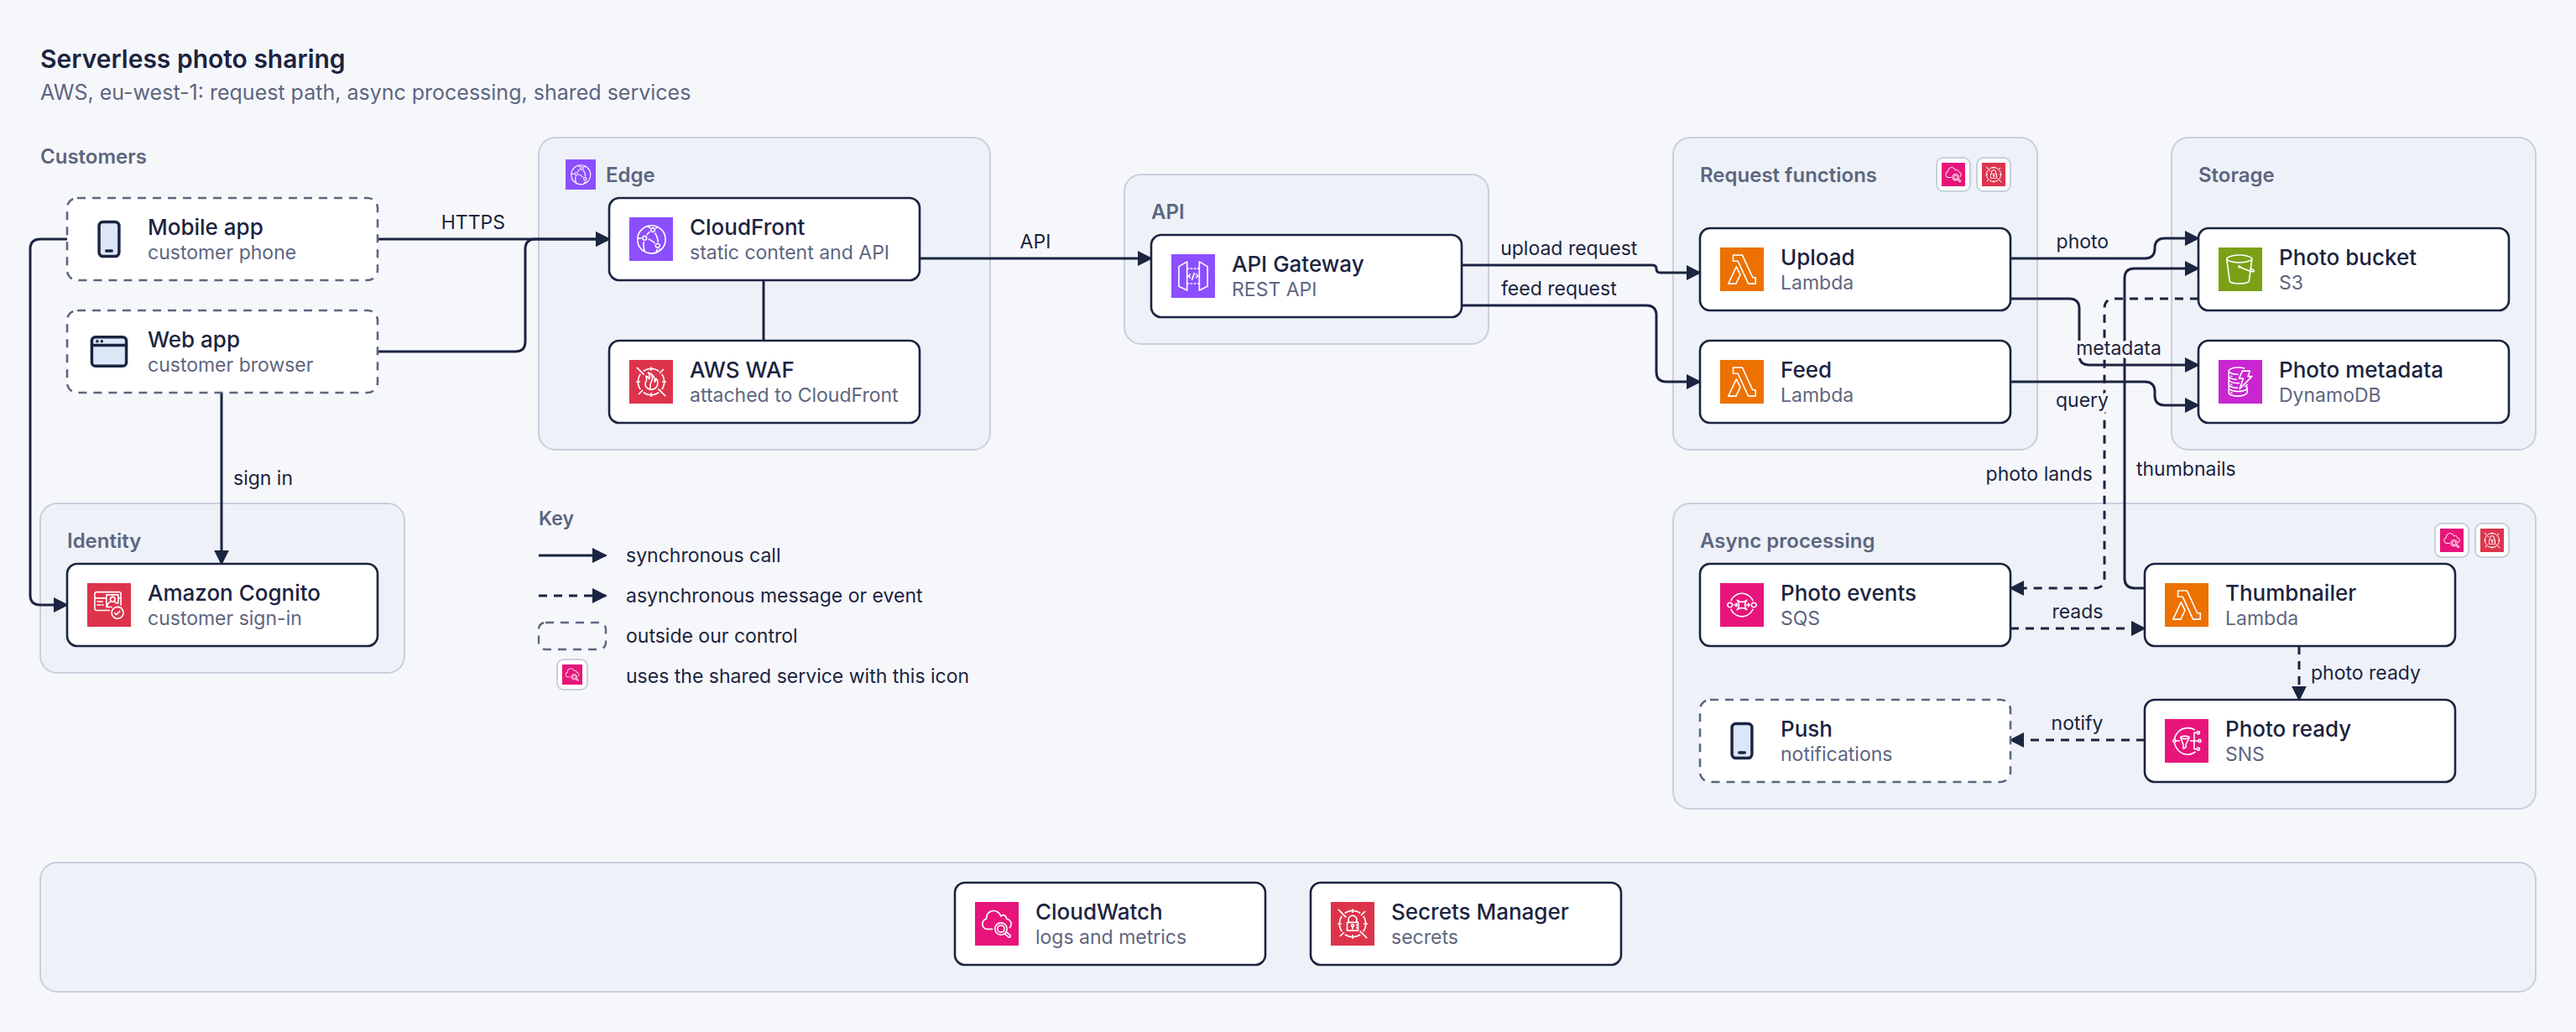
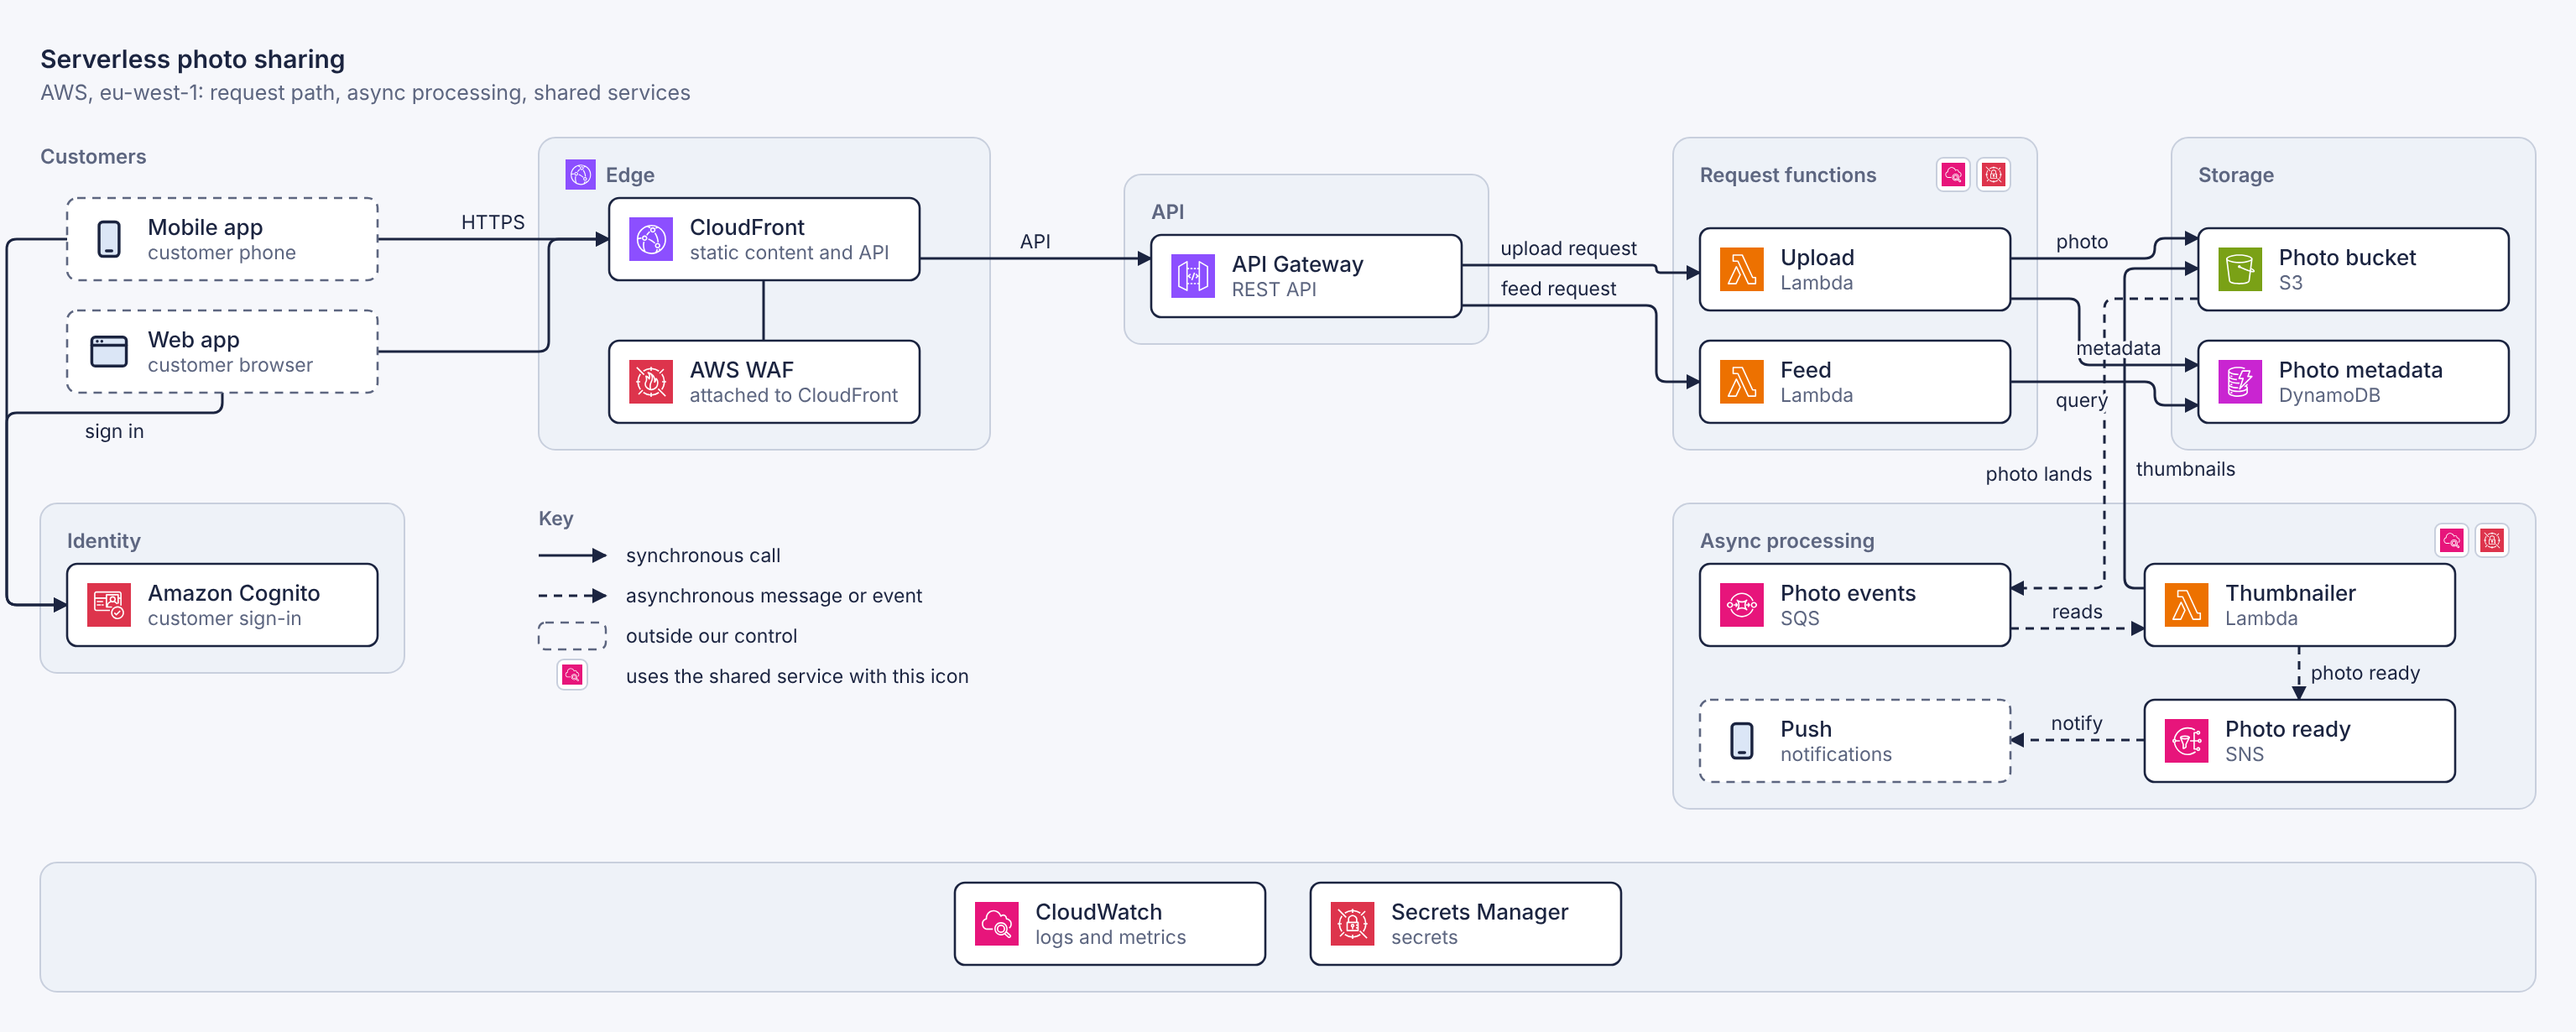
Bundles: lines with one end and one label merge into one trunk
Lines into (or out of) one box bundle when written in one statement or labelled alike in
the same style. A bundle meets its box on one side and routes as a tree: each line joins
the lines already drawn, so the bundle draws one trunk with one label. Arrowheads sit 36px
past the trunk's last bend, and two trunks keep 12px or more apart. A longer port no longer
fails on grid points inside the box's own clearance.

diff --git a/skills/graphally/scripts/lib/route.js b/skills/graphally/scripts/lib/route.js
@@ -15,6 +15,8 @@ const BEND = 36, CROSS = 70, OVERLAP = 22, FOREIGN = 2.2;
 // clearance allows such ends: its ports sit MIN_END + 2 out where there is room (portAt), and
 // where there is not, turning near the box costs STUB, so the bend moves out where it can.
 const MIN_END = 12, STUB = 60;
+// A bundle's lines turn this far out from a box they point at, so the arrowheads have room.
+const TRUNK = 36;
 const DX = [1, 0, -1, 0], DY = [0, 1, 0, -1];   // E S W N
 
 export function routeEdges(model, geo, m) {
@@ -54,13 +56,15 @@ export function routeEdges(model, geo, m) {
     return out;
   };
 
+  // Lines that share an end and mean the same thing bundle into one tree: written in one
+  // statement (a, b -> c), or labelled alike in the same style. Unlabelled lines from separate
+  // statements stay apart: nothing says they carry the same thing.
   const bundleOf = new Map();
-  for (const e of model.edges) {
-    if (!e.stmt) continue;
-    const sameTo = model.edges.filter(q => q.stmt === e.stmt && q.to === e.to).length > 1;
-    const sameFrom = model.edges.filter(q => q.stmt === e.stmt && q.from === e.from).length > 1;
-    if (sameTo) bundleOf.set(e, `${e.stmt}>${e.to}`); else if (sameFrom) bundleOf.set(e, `${e.stmt}<${e.from}`);
-  }
+  const kind = e => (e.label ? `"${e.label}"${JSON.stringify([!!e.dashed, !!e.both, !!e.accent, !!e.line, e.color || '', e.ends ? [e.ends.head, e.ends.tail, e.ends.dash] : 0])}` : e.stmt ? `#${e.stmt}` : null);
+  const groupBy = key => { const g = new Map(); for (const e of model.edges) { const k = key(e); if (k) (g.get(k) || g.set(k, []).get(k)).push(e); } return g; };
+  const fanIns = groupBy(e => kind(e) && `>${e.to}|${kind(e)}`), fanOuts = groupBy(e => kind(e) && `<${e.from}|${kind(e)}`);
+  for (const [k, list] of fanIns) if (new Set(list.map(e => e.from)).size > 1) for (const e of list) bundleOf.set(e, k);
+  for (const [k, list] of fanOuts) if (new Set(list.map(e => e.to)).size > 1) for (const e of list) if (!bundleOf.has(e)) bundleOf.set(e, k);
   const bundleIds = new Map([...new Set(bundleOf.values())].map((k, i) => [k, i + 1]));
   const edges = model.edges.filter(e => e.from !== e.to && rectOf(e.from) && rectOf(e.to)).map(e => ({
     bundle: bundleIds.get(bundleOf.get(e)) || 0,
@@ -117,6 +121,29 @@ export function routeEdges(model, geo, m) {
     }
     return path;
   });
+
+  // A bundle meets its shared box on one side, the side its longest line chose: a line that came
+  // in on another side is routed again to that one, so the lines can merge, unless that costs it
+  // a long detour or the side is set by hand.
+  const fanIn = E => (bundleOf.get(E.e) || '').startsWith('>');
+  const span = k => manhattan(center(edges[k].a), center(edges[k].b));
+  const weigh = path => path.points.reduce((t, q, i, ps) => t + (i ? manhattan(q, ps[i - 1]) : 0), 0) + BEND * Math.max(0, simplify(path.points).length - 2);
+  const byBundle = new Map();
+  edges.forEach((E, k) => { if (E.bundle && first[k]) (byBundle.get(E.bundle) || byBundle.set(E.bundle, []).get(E.bundle)).push(k); });
+  for (const list of byBundle.values()) {
+    const sideOf = k => (fanIn(edges[k]) ? first[k].goalSide : first[k].startSide), lead = list.reduce((a, b) => (span(b) > span(a) ? b : a));
+    for (const k of list) {
+      const E = edges[k], w = fanIn(E) ? 'b' : 'a', o = w === 'a' ? 'b' : 'a';
+      if (sideOf(k) === sideOf(lead) || E.e.override?.[w === 'a' ? 'out' : 'in'] != null) continue;
+      const here = portsOf(E[w], E, w, grid, P).filter(q => q && q.side === sideOf(lead)), there = endPorts(E, o, portsOf(E[o], E, o, grid, P));
+      if (!here.length) continue;
+      markUse(grid, first[k].cells, -1, E.bundle);
+      const path = astar(grid, w === 'a' ? here : there, w === 'a' ? there : here, E.allowed, gIndex, E.bundle, marksOf(E.e));
+      const better = path && weigh(path) <= weigh(first[k]) + 3 * BEND + 300;
+      if (better) first[k] = path;
+      markUse(grid, first[k].cells, 1, E.bundle);
+    }
+  }
 
   // ---- spread ports that share a side ----
   const ends = new Map();
@@ -195,24 +222,70 @@ export function routeEdges(model, geo, m) {
 
   // ---- pass 2: fixed ports ----
   for (const f of fixed) for (const w of ['a', 'b']) if (f[w]) (f[w].side % 2 === 0 ? extraY : extraX).add(f[w].coord);
+  // A bundle's lines merge and split away from its boxes: an end with a mark (the one arrowhead
+  // of a fan-in, each arrowhead of a fan-out) gets grid lines a full trunk's length out.
+  const roomy = (E, w) => E.bundle && marksOf(E.e)[w === 'b' ? 'head' : 'tail'];
+  // Two such lines a few pixels apart would draw two trunks side by side: the later one is left
+  // out, and its port snaps to the first.
+  const trunkAt = { x: [], y: [] }, addTrunk = (axis, v) => { if (trunkAt[axis].some(u => Math.abs(u - v) < 12)) return; trunkAt[axis].push(v); (axis === 'x' ? extraX : extraY).add(v); };
+  edges.forEach((E, k) => { for (const w of ['a', 'b']) { const f = fixed[k][w]; if (!f || !roomy(E, w)) continue; const r = E[w];
+    if (f.side === 0) addTrunk('x', r.x + r.w + TRUNK); else if (f.side === 2) addTrunk('x', r.x - TRUNK); else if (f.side === 1) addTrunk('y', r.y + r.h + TRUNK); else addTrunk('y', r.y - TRUNK); } });
   grid = buildGrid(geo, hard, groupsList, extraX, extraY);
   const endsOf = k => {
     const E = edges[k], f = fixed[k];
-    return [(f.a ? [portAt(E.a, f.a.side, f.a.coord, grid, P)] : endPorts(E, 'a', portsOf(E.a, E, 'a', grid, P))).filter(Boolean),
-            (f.b ? [portAt(E.b, f.b.side, f.b.coord, grid, P)] : endPorts(E, 'b', portsOf(E.b, E, 'b', grid, P))).filter(Boolean)];
+    return [(f.a ? [portAt(E.a, f.a.side, f.a.coord, grid, P, E.aGroup, roomy(E, 'a') ? TRUNK : 0)] : endPorts(E, 'a', portsOf(E.a, E, 'a', grid, P))).filter(Boolean),
+            (f.b ? [portAt(E.b, f.b.side, f.b.coord, grid, P, E.bGroup, roomy(E, 'b') ? TRUNK : 0)] : endPorts(E, 'b', portsOf(E.b, E, 'b', grid, P))).filter(Boolean)];
   };
-  const paths = edges.map((E, k) => {
-    const [starts, goals] = endsOf(k);
-    const path = astar(grid, starts, goals, E.allowed, gIndex, E.bundle, marksOf(E.e));
-    if (path) markUse(grid, path.cells, 1, E.bundle);
-    return path;
+  // A bundle routes as a tree: its longest line first, then each other line may end (fan-in)
+  // or start (fan-out) on any cell of the lines already routed, and takes that line's way from
+  // there. The lines meet on one trunk, drawn once, instead of running side by side.
+  const dirAt = (cells, t) => { const a = cells[t], b = cells[t + 1]; return b === a + 1 ? 0 : b === a - 1 ? 2 : b > a ? 1 : 3; };
+  const treeEnds = (k, starts, goals) => {
+    const E = edges[k];
+    for (const [j, T] of paths.entries()) {
+      if (j === k || !T || !E.bundle || edges[j].bundle !== E.bundle) continue;
+      // Not a trunk's first or last cell: those are its own ports.
+      for (let t = 1; t < T.cells.length - 1; t++) {
+        const c = T.cells[t], i = c % grid.nx, jj = (c / grid.nx) | 0, d = dirAt(T.cells, t), p = { x: grid.xs[i], y: grid.ys[jj] };
+        if (fanIn(E)) goals.push({ i, j: jj, dir: (d + 2) % 4, side: T.goalSide, coord: T.goalCoord, boundary: p, trunk: { T, t } });
+        else starts.push({ i, j: jj, dir: d, side: T.startSide, coord: T.startCoord, boundary: p, trunk: { T, t } });
+      }
+    }
+    return [starts, goals];
+  };
+  // A path that reached a trunk takes the trunk's remainder (or, from a trunk, its beginning).
+  const join = path => {
+    if (!path) return path;
+    let { points, cells } = path;
+    const out = { ...path }, g = path.goal?.trunk, s = path.start?.trunk;
+    if (g) { points = [...points, ...g.T.points.slice(g.t + 2)]; cells = [...cells, ...g.T.cells.slice(g.t + 1)]; Object.assign(out, { goalSide: g.T.goalSide, goalCoord: g.T.goalCoord }); }
+    if (s) { points = [...s.T.points.slice(0, s.t + 1), ...points]; cells = [...s.T.cells.slice(0, s.t), ...cells]; Object.assign(out, { startSide: s.T.startSide, startCoord: s.T.startCoord }); }
+    if (g || s) out.tree = (g || s).T.tree;                 // the tree it joined
+    return { ...out, points, cells };
+  };
+  const paths = new Array(edges.length).fill(null), routed = new Set();
+  edges.forEach((E, k) => {
+    if (routed.has(k)) return;
+    const members = E.bundle ? edges.map((F, j) => (F.bundle === E.bundle ? j : -1)).filter(j => j >= 0).sort((a, b) => span(b) - span(a)) : [k];
+    for (const m of members) {
+      const [starts, goals] = treeEnds(m, ...endsOf(m));
+      const path = join(astar(grid, starts, goals, edges[m].allowed, gIndex, edges[m].bundle, marksOf(edges[m].e)));
+      if (path) {
+        // A line that reached the shared end's port on its own still meets the others there.
+        const endOf = P => (fanIn(edges[m]) ? P.cells.at(-1) : P.cells[0]), twin = members.find(j => paths[j] && endOf(paths[j]) === endOf(path));
+        path.tree ??= twin !== undefined ? paths[twin].tree : m;
+        markUse(grid, path.cells, 1, edges[m].bundle);
+      }
+      paths[m] = path;
+      routed.add(m);
+    }
   });
   // Rip up and reroute: each edge is routed again with every other edge in place, so
-  // early edges stop blocking the good routes of later ones.
+  // early edges stop blocking the good routes of later ones. A bundle keeps its tree.
   for (let round = 0; round < 3; round++) {
     let changed = false;
     edges.forEach((E, k) => {
-      if (!paths[k]) return;
+      if (!paths[k] || E.bundle) return;
       markUse(grid, paths[k].cells, -1, E.bundle);
       const [starts, goals] = endsOf(k);
       const again = astar(grid, starts, goals, E.allowed, gIndex, E.bundle, marksOf(E.e));
@@ -224,7 +297,7 @@ export function routeEdges(model, geo, m) {
   const routes = edges.map((E, k) => {
     const path = paths[k] || first[k];
     if (!path) { model.problems.push({ rule: 'unroutable', from: E.e.from, to: E.e.to }); return null; }
-    return { edge: E.e, bundle: E.bundle, points: simplify(path.points), out: path.startSide, in: path.goalSide };
+    return { edge: E.e, bundle: E.bundle, tree: E.bundle ? `${E.bundle}.${path.tree ?? k}` : 0, points: simplify(path.points), out: path.startSide, in: path.goalSide };
   }).filter(Boolean);
 
   nudge(routes);
@@ -314,11 +387,12 @@ const snap = (map, arr, v) => {
 };
 
 // A port: the point on the box edge, and the grid point just outside it.
-function portAt(r, side, coord, grid, P, isGroup) {
+function portAt(r, side, coord, grid, P, isGroup, want = 0) {
   // With page mode's small clearance the port sits a full end's length out (grid.end) when the
   // way there is free, so the line runs that far before it may turn; else at the clearance.
+  // want: a longer first choice (a bundle's marked end, so its trunk turns away from the box).
   const near = isGroup ? 10 : P;
-  for (const out of grid.end > near ? [grid.end, near] : [near]) {
+  for (const out of [...new Set([want, grid.end, near])].filter(o => o >= near).sort((a, b) => b - a)) {
     let bx, by, ox, oy;
     // An icon node's label hangs below it; a connection downwards starts under the label.
     const below = r.node?.style === 'icon' && r.node.extLabel?.box ? r.node.extLabel.box.y + r.node.extLabel.box.h + 3 : null;
@@ -327,14 +401,16 @@ function portAt(r, side, coord, grid, P, isGroup) {
     else if (side === 1) { bx = coord; by = below ?? r.y + r.h; ox = bx; oy = by + out; }
     else { bx = coord; by = r.y; ox = bx; oy = by - out; }
     const i = snap(grid.ix, grid.xs, ox), j = snap(grid.iy, grid.ys, oy);
-    if (!grid.okP[j * grid.nx + i] || (out !== near && !clearTo(grid, side, i, j, side % 2 === 0 ? bx : by))) continue;
+    // The way back to the clearance must be free; inside it, every point is blocked by the box itself.
+    const edge = (side % 2 === 0 ? bx : by) + (side === 0 || side === 1 ? near : -near);
+    if (!grid.okP[j * grid.nx + i] || (out !== near && !clearTo(grid, side, i, j, edge))) continue;
     // Keep the first segment perpendicular: the snapped grid point defines the port.
     if (side % 2 === 0) by = grid.ys[j]; else bx = grid.xs[i];
     return { i, j, side, coord: side % 2 === 0 ? grid.ys[j] : grid.xs[i], boundary: { x: bx, y: by }, dir: side, out };
   }
   return null;
 }
-// Every grid point between a port and its box's side is free (nothing thin stands in between).
+// Every grid point between a port and its box's clearance is free (nothing thin stands in between).
 function clearTo(grid, side, i, j, edge) {
   const horiz = side % 2 === 0, step = side === 0 || side === 1 ? -1 : 1;
   for (let a = horiz ? i : j; ; a += step) {
@@ -437,7 +513,7 @@ function astar(grid, starts, goals, allowed, gIndex, bundle = 0, marks = { head:
   const start = starts[startIdx];
   const pts = [start.boundary, ...cells.map(s => { const k = (s / 4) | 0; return { x: xs[k % nx], y: ys[(k / nx) | 0] }; }), bestGoal.boundary];
   return { points: pts, cells: cells.map(s => (s / 4) | 0), startSide: start.side, goalSide: bestGoal.side,
-    startCoord: start.coord, goalCoord: bestGoal.coord, cost: best };
+    startCoord: start.coord, goalCoord: bestGoal.coord, cost: best, start, goal: bestGoal };
 }
 
 function markUse(grid, cells, delta = 1, bundle = 0) {
@@ -542,11 +618,11 @@ function placeLabels(routes, geo, hard, m) {
   const labelled = new Set();
   for (const ri of order) {
     const r = routes[ri], text = r.edge.label;
-    // a, b -> c : label   draws the label once, on the first of its edges to be placed,
-    // when the edges share an end (fan-in or fan-out).
-    const fan = r.edge.stmt && routes.some(q => q !== r && q.edge.stmt === r.edge.stmt && (q.edge.to === r.edge.to || q.edge.from === r.edge.from));
-    if (fan && labelled.has(r.edge.stmt)) continue;
-    if (fan) labelled.add(r.edge.stmt);
+    // The lines of a bundle that merged into one tree carry one label, drawn on the first of
+    // them to be placed; a line of the bundle that runs on its own keeps its label.
+    const fan = r.tree;
+    if (fan && labelled.has(fan)) continue;
+    if (fan) labelled.add(fan);
     const w = m.width(text, T.edge), h = 14;
     const p = r.points, cands = [];
     const total = p.reduce((s, q, i) => s + (i ? Math.abs(q.x - p[i - 1].x) + Math.abs(q.y - p[i - 1].y) : 0), 0);

diff --git a/skills/graphally/scripts/lib/page.js b/skills/graphally/scripts/lib/page.js
@@ -579,7 +579,7 @@ function overlaps(routes, problems) {
   const segs = routes.map(r => r.points.slice(1).map((q, i) => [r.points[i], q]).filter(([p, q]) => Math.abs(p.x - q.x) < 0.5 || Math.abs(p.y - q.y) < 0.5));
   for (let i = 0; i < routes.length; i++) for (let j = i + 1; j < routes.length; j++) {
     const a = routes[i].edge, b = routes[j].edge;
-    if (a.stmt && a.stmt === b.stmt) continue;            // one statement's lines may share a trunk
+    if (routes[i].tree && routes[i].tree === routes[j].tree) continue;   // a bundle's lines merged into one trunk
     const shared = segs[i].some(([p, q]) => segs[j].some(([u, v]) => {
       const flat = Math.abs(p.y - q.y) < 0.5, same = flat ? Math.abs(u.y - v.y) < 0.5 && Math.abs(p.y - u.y) < 2 : Math.abs(u.x - v.x) < 0.5 && Math.abs(p.x - u.x) < 2;
       if (!same) return false;

diff --git a/docs/design.md b/docs/design.md
@@ -111,8 +111,13 @@ channels between them. A path's cost counts:
 
 Routing runs in two passes. The first picks the side each edge leaves from. The second
 spreads edges that share a side. A few rounds of rip-up and reroute follow, and then
-parallel segments are pulled apart. Edges written in one statement to a shared end bundle
-into a trunk.
+parallel segments are pulled apart.
+
+Edges that share an end and say the same thing bundle: written in one statement
+(`a, b -> c`), or with the same label in the same style. A bundle meets its shared box on
+one side, and routes as a tree: its longest edge first, then each other edge joins the
+lines already drawn and follows them from there. The bundle draws one trunk and carries
+one label. Every arrowhead in a bundle sits at least 36px past the trunk's last bend.
 
 A link from a whole group to a shared service in a `<band>` is drawn as a badge: the
 service's icon in the group's header, instead of a wire across the diagram.

diff --git a/skills/graphally/references/page.md b/skills/graphally/references/page.md
@@ -159,7 +159,8 @@ takes `out` and `in` (`top`, `right`, `bottom`, `left`: the sides it leaves and 
   the same grid cells), and a full-width header strip without an id, up to 48px tall. The
   script's straight lines count as taken, so `connect` keeps off them.
 - Lines that share a side spread along it; a line whose other end faces it runs straight
-  in when that end lies along the side. Two boxes line up only when they share a grid row
+  in when that end lies along the side. Lines into (or out of) one box with the same label
+  and style merge into one trunk with one label. Two boxes line up only when they share a grid row
   or column: put boxes that a straight line joins in one grid (or a `subgrid`), rather
   than nudging one with margins.
 - It keeps 6px from boxes, so it passes through any gap wider than 12px. A labelled line

diff --git a/skills/graphally/SKILL.md b/skills/graphally/SKILL.md
@@ -83,7 +83,8 @@ sb ~> worker : events
   cells; `.` is empty; `key` places the legend. Without a map, groups are placed in
   columns following the flow of the links.
 - **`<links>`**: one per line, `from -> to : label`. Several ids allowed on each side
-  (`a, b -> c`); chains allowed (`a -> b -> c`). `->` call, `~>` async message or event
+  (`a, b -> c`); chains allowed (`a -> b -> c`). Lines into (or out of) one box with the
+  same label merge into one trunk with one label. `->` call, `~>` async message or event
   (dashed), `<->` two-way, `--` plain line, `=>` highlighted. A group id is a valid end:
   `app -> kv : secrets` instead of one edge per app.
 - **Corrections**: `<link from=api to=db label=writes out=bottom in=left>` is the long form
